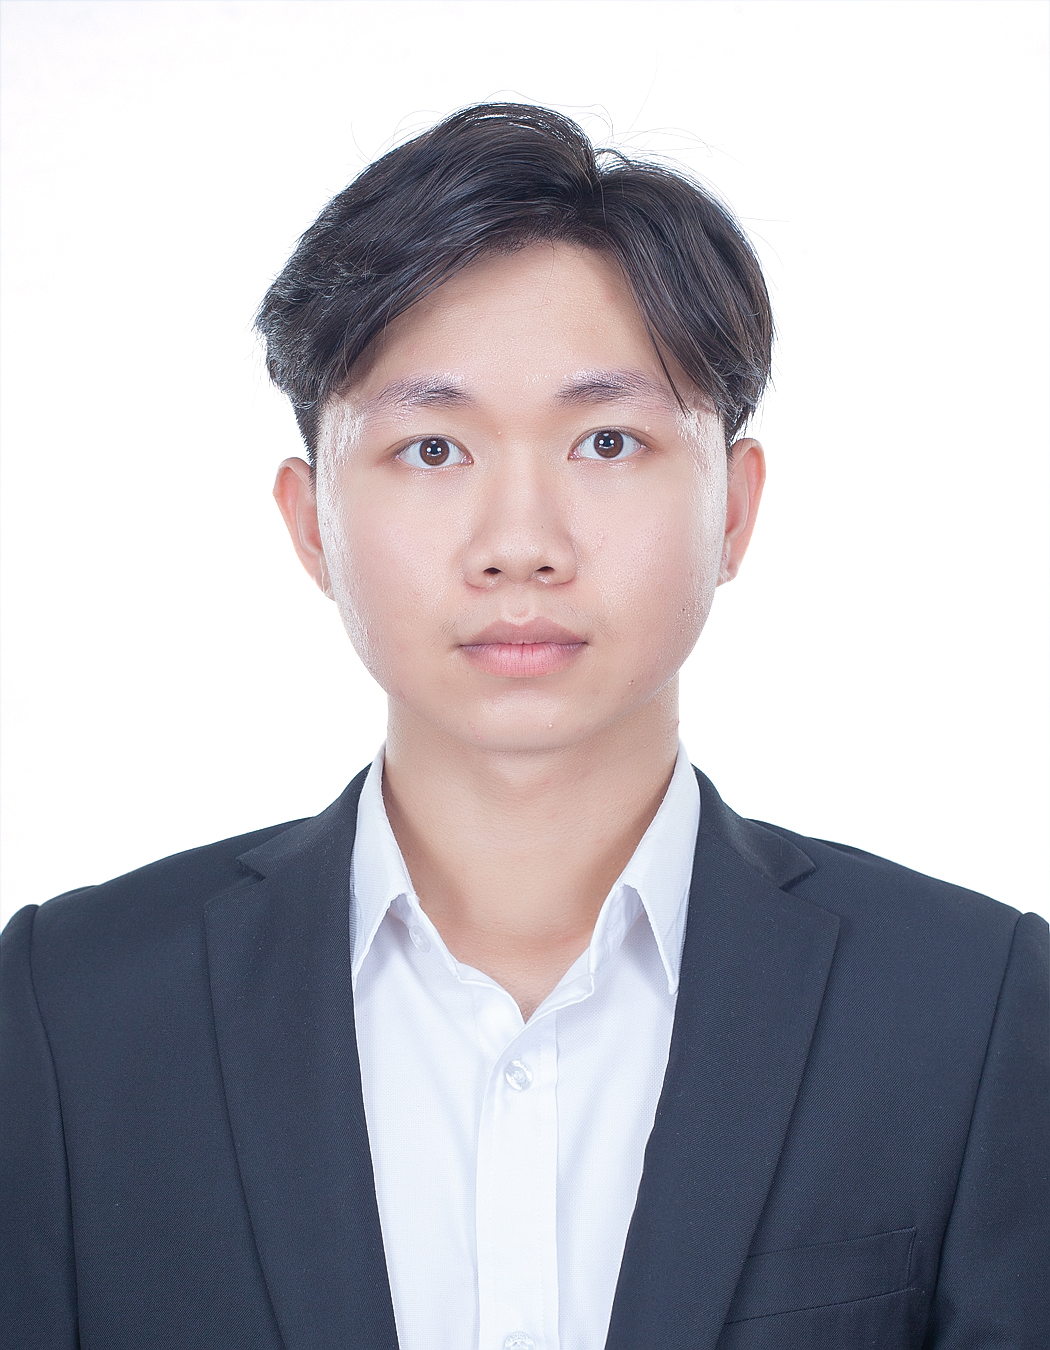
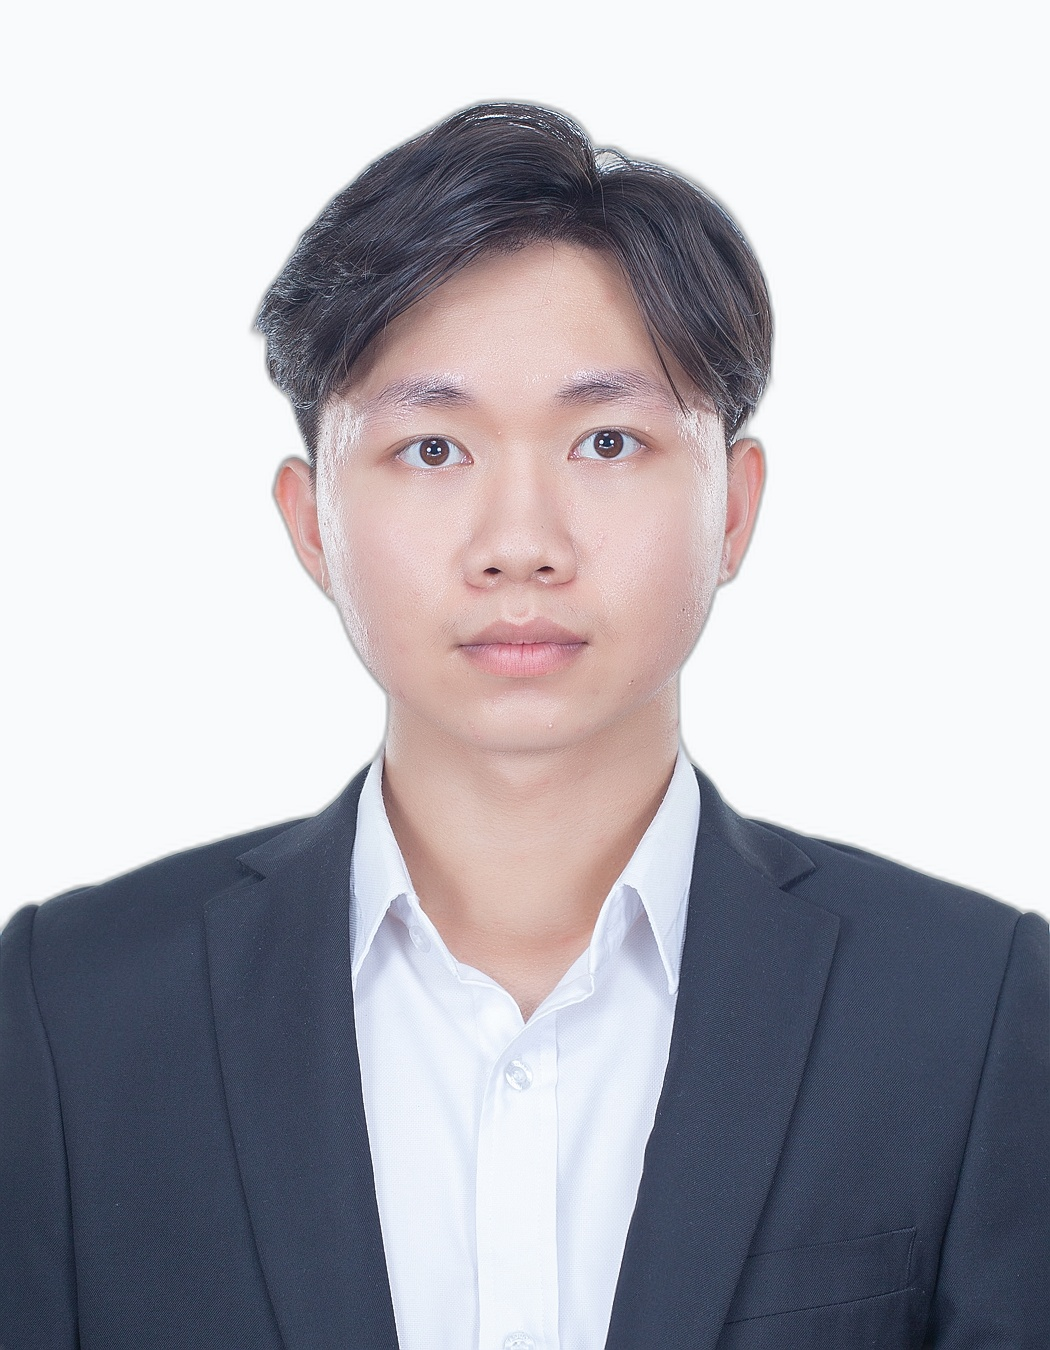
remove background from all profile picture

diff --git a/assets/css/profile.css b/assets/css/profile.css
@@ -192,18 +192,15 @@ nav a:hover::after {
   height: 100%;
   object-fit: cover;
   object-position: center;
-  image-rendering: -webkit-optimize-contrast;
-  image-rendering: crisp-edges;
   -webkit-backface-visibility: hidden;
   backface-visibility: hidden;
   transform: translateZ(0);
-  -webkit-font-smoothing: subpixel-antialiased;
 }
 
-/* White background for scaled-down profile pictures */
+/* Match background color to rembg-processed images (#f8fafc) */
 .profile-photo:has(img[src*="chhun_rotanakkosal"]),
 .profile-photo:has(img[src*="pov_phannet"]) {
-  background: white !important;
+  background: #f8fafc !important;
 }
 
 /* Specific adjustments for zoomed-in profile pictures */
@@ -216,24 +213,22 @@ nav a:hover::after {
 
 .profile-photo img[src*="vorn_naro"] {
   object-fit: contain;
-  background: white;
+  background: #f8fafc;
 }
 
 .profile-photo img[src*="chan_sokheang"] {
   object-fit: cover;
   object-position: center;
-  filter: brightness(1.1) contrast(1.05);
 }
 
 .profile-photo img[src*="chhor_ratanaktepi"] {
   object-fit: cover;
-  object-position: center 30%;
+  object-position: 55% 25%;
 }
 
 .profile-photo img[src*="kong_vungsovanreach"] {
   object-fit: cover;
-  object-position: center;
-  transform: scale(1.15);
+  object-position: center 25%;
 }
 
 .profile-header h1 {

diff --git a/assets/css/homepage.css b/assets/css/homepage.css
@@ -403,18 +403,15 @@ h2::after {
   height: 100%;
   object-fit: cover;
   object-position: center;
-  image-rendering: -webkit-optimize-contrast;
-  image-rendering: crisp-edges;
   -webkit-backface-visibility: hidden;
   backface-visibility: hidden;
   transform: translateZ(0);
-  -webkit-font-smoothing: subpixel-antialiased;
 }
 
-/* White background for scaled-down profile pictures */
+/* Match background color to rembg-processed images (#f8fafc) */
 .member-photo:has(img[src*="chhun_rotanakkosal"]),
 .member-photo:has(img[src*="pov_phannet"]) {
-  background: white !important;
+  background: #f8fafc !important;
 }
 
 /* Specific adjustments for zoomed-in profile pictures */
@@ -427,24 +424,22 @@ h2::after {
 
 .member-photo img[src*="vorn_naro"] {
   object-fit: contain;
-  background: white;
+  background: #f8fafc;
 }
 
 .member-photo img[src*="chan_sokheang"] {
   object-fit: cover;
   object-position: center;
-  filter: brightness(1.1) contrast(1.05);
 }
 
 .member-photo img[src*="chhor_ratanaktepi"] {
   object-fit: cover;
-  object-position: center 30%;
+  object-position: 55% 25%;
 }
 
 .member-photo img[src*="kong_vungsovanreach"] {
   object-fit: cover;
-  object-position: center;
-  transform: scale(1.15);
+  object-position: center 25%;
 }
 
 .member-name {
